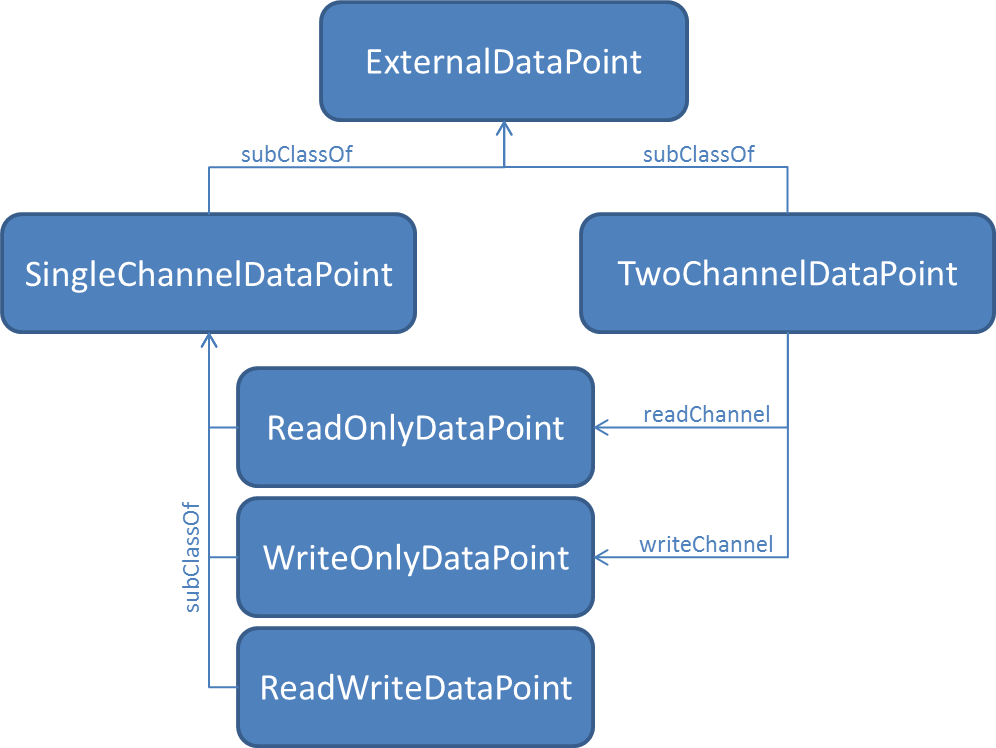
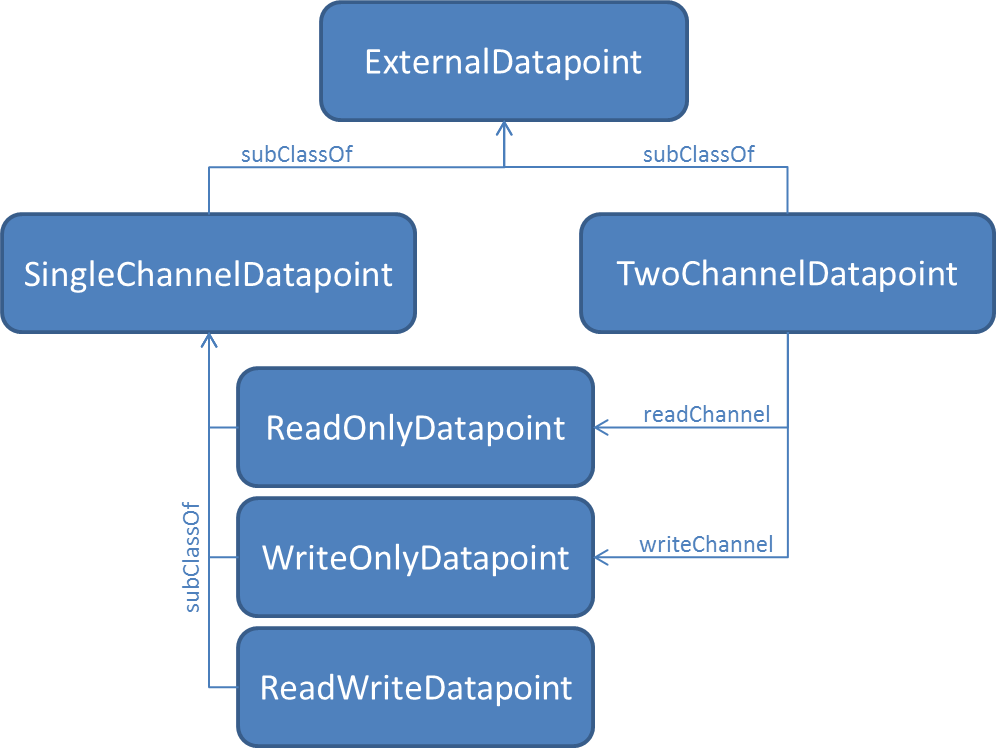
(1) The class ExternalComponent has been made abstract, the new input parameter 'componentURI' has been added to the constructor of this class, the constructor documents now why it is protected, and the class contains now a new method called getComponentURI().
(2) A constant has been added to the interface ComponentIntegrator with appropriate documentation.

(3) The interface ExternalDataPoint has been refactored to ExternalDatapoint ('P' -> 'p', also in doc-files/dpHierarchy.png)

diff --git a/lddi.common/lddi.abstraction/src/main/java/org/universAAL/lddi/abstraction/CommunicationGateway.java b/lddi.common/lddi.abstraction/src/main/java/org/universAAL/lddi/abstraction/CommunicationGateway.java
@@ -22,7 +22,7 @@ package org.universAAL.lddi.abstraction;
 /**
  * A gateway providing a bridge to a network of external components making it for
  * {@link ComponentIntegrator component integrators} possible to gain access to
- * related {@link ExternalDataPoint external data points}.
+ * related {@link ExternalDatapoint external datapoints}.
  * 
  * For a better understanding, please refer to both the package documentation and the
  * documentation of the methods further below.
@@ -44,19 +44,19 @@ public abstract class CommunicationGateway {
 	/**
 	 * <p>Serves as means for subscribing for events related to the changes of the value
 	 * of a given property of a given external component by specifying the related
-	 * external data point. Note that this implies that the external components made
-	 * known by gateways to integrators must include the property mapping to data points.</p>
+	 * external datapoint. Note that this implies that the external components made
+	 * known by gateways to integrators must include the property mapping to datapoints.</p>
 	 * 
 	 * <p>To be used by {@link ComponentIntegrator component integrators} to inform this
 	 * gateway about the interest to be notified as soon as the value of the given
-	 * external data point changes. The implementation must (1) add the given integrator
+	 * external datapoint changes. The implementation must (1) add the given integrator
 	 * to the list of integrators interested in the same kind of events, and (2) call
-	 * {@link ComponentIntegrator#processEvent(ExternalDataPoint, Object) the related
+	 * {@link ComponentIntegrator#processEvent(ExternalDatapoint, Object) the related
 	 * notification method} of the integrator both with the current value at the time
 	 * of registration and at any time in future when the value changes.</p>
 	 * 
 	 * @param integrator the integrator registing for notification.
-	 * @param datapoint the data point whose changes of values must fire events.
+	 * @param datapoint the datapoint whose changes of values must fire events.
 	 * @param intervalSeconds needed when the external communication protocol doesn't
 	 * support "real-time" eventing and hence the gateway has to implement the eventing
 	 * mechanism by pulling the value every n seconds and check if it has changed or not.
@@ -64,15 +64,15 @@ public abstract class CommunicationGateway {
 	 * @return An ID for this subscription so that integrators can unsubscribe later if
 	 * need be.
 	 */
-	public abstract int startEventing(ComponentIntegrator integrator, ExternalDataPoint datapoint, byte intervalSeconds);
+	public abstract int startEventing(ComponentIntegrator integrator, ExternalDatapoint datapoint, byte intervalSeconds);
 
 	/**
 	 * Serves as means for subscribing for events related to the changes of the value
 	 * of any property of the given external component. Compared to {@link
-	 * #startEventing(ComponentIntegrator, ExternalDataPoint, byte)}, it wildcards all
-	 * data points within the scope of the given external component.
+	 * #startEventing(ComponentIntegrator, ExternalDatapoint, byte)}, it wildcards all
+	 * datapoints within the scope of the given external component.
 	 * 
-	 * @see #startEventing(ComponentIntegrator, ExternalDataPoint, byte) 
+	 * @see #startEventing(ComponentIntegrator, ExternalDatapoint, byte) 
 	 */
 	public abstract int startEventing(ComponentIntegrator integrator, ExternalComponent component, byte intervalSeconds);
 
@@ -82,11 +82,11 @@ public abstract class CommunicationGateway {
 	 * any external component of the given type; otherwise, with propURI == null,
 	 * it can be used to subscribe for the changes of the value of any property
 	 * of any external component of the given type. Compared to {@link
-	 * #startEventing(ComponentIntegrator, ExternalDataPoint, byte)}, it wildcards
-	 * all data points within the scope of all external components of the given
+	 * #startEventing(ComponentIntegrator, ExternalDatapoint, byte)}, it wildcards
+	 * all datapoints within the scope of all external components of the given
 	 * type, either by selecting those that correspond to a given property or not.
 	 * 
-	 * @see #startEventing(ComponentIntegrator, ExternalDataPoint, byte) 
+	 * @see #startEventing(ComponentIntegrator, ExternalDatapoint, byte) 
 	 */
 	public abstract int startEventing(ComponentIntegrator integrator, String componentTypeURI, String propURI, byte intervalSeconds);
 
@@ -94,7 +94,7 @@ public abstract class CommunicationGateway {
 	 * {@link ComponentIntegrator component integrators} can use this method to unsubscribe
 	 * a subscription done previously.
 	 * @param eventingID the ID returned previously when calling {@link #startEventing(
-	 * ComponentIntegrator, ExternalDataPoint, byte)} or any of the wildcarding versions
+	 * ComponentIntegrator, ExternalDatapoint, byte)} or any of the wildcarding versions
 	 * of it.
 	 */
 	public abstract void stopEventing(int eventingID);
@@ -102,18 +102,18 @@ public abstract class CommunicationGateway {
 	/**
 	 * {@link ComponentIntegrator component integrators} can use this method to get the
 	 * value of a given property of a given external component by specifying the related
-	 * external data point. Note that this implies that the external components made
-	 * known by gateways to integrators must include the property mapping to data points.</p>
+	 * external datapoint. Note that this implies that the external components made
+	 * known by gateways to integrators must include the property mapping to datapoints.</p>
 	 */
-	public abstract Object readValue(ExternalDataPoint datapoint);
+	public abstract Object readValue(ExternalDatapoint datapoint);
 
 	/**
 	 * {@link ComponentIntegrator component integrators} can use this method to change the
 	 * value of a given property of a given external component by specifying the related
-	 * external data point and the new value. Note that this implies that the external
+	 * external datapoint and the new value. Note that this implies that the external
 	 * components made known by gateways to integrators must include the property mapping
-	 * to data points.</p>
+	 * to datapoints.</p>
 	 */
-	public abstract void writeValue(ExternalDataPoint datapoint, Object value);
+	public abstract void writeValue(ExternalDatapoint datapoint, Object value);
 
 }

diff --git a/lddi.common/lddi.abstraction/src/main/java/org/universAAL/lddi/abstraction/ExternalComponent.java b/lddi.common/lddi.abstraction/src/main/java/org/universAAL/lddi/abstraction/ExternalComponent.java
@@ -31,45 +31,56 @@ import java.util.Hashtable;
  * about the existence of external components.</p>
  * 
  * <p>To support gateways in mapping the ontological way of "addressing" in universAAL to the kind of addressing
- * in the external network, this class provides the methods {@link #addPropMapping(String, ExternalDataPoint)}
- * and {@link #getDataPoint(String)} in terms of mapping ontological properties to read- and writable data
- * points. Gateways are expected to use this class as means for grouping external data points that correspond
+ * in the external network, this class provides the methods {@link #addPropMapping(String, ExternalDatapoint)}
+ * and {@link #getDatapoint(String)} in terms of mapping ontological properties to read- and writable datapoints.
+ * Gateways are expected to use this class as means for grouping external datapoints that correspond
  * to a distinct component of a distinct type. Then, in each external component, all properties mapped to
- * the selected group of external data points must be defined for that type in the used ontology. This type must
+ * the selected group of external datapoints must be defined for that type in the used ontology. This type must
  * be set by gateways and can be fetched by calling {@link #getTypeURI()}. Thinking in terms of devices, this
  * means that all properties must belong to a single device whose type is returned by {@link #getTypeURI()}.</p>
  *
  */
-public class ExternalComponent {
+public abstract class ExternalComponent {
 
 	private CommunicationGateway gw;
+	private String componentURI = null;
 	private String typeURI = null;
-	private Hashtable<String,ExternalDataPoint> propMappings = null;
+	private Hashtable<String,ExternalDatapoint> propMappings = null;
 
-	protected ExternalComponent(CommunicationGateway gw, String typeURI) {
-		if (gw == null  ||  typeURI == null)
+	/**
+	 * The constructor has been made 'protected' in order to force
+	 * communication gateways to create own subclasses in order to make sure 
+	 * that each communication gateway can create only instances defined by itself.
+	 */
+	protected ExternalComponent(CommunicationGateway gw, String componentURI, String typeURI) {
+		if (gw == null  ||  componentURI == null  ||  typeURI == null)
 			throw new NullPointerException("ExternalComponent constructor: parameter null!");
 		
 		this.gw = gw;
+		this.componentURI = componentURI;
 		this.typeURI = typeURI;
 	}
 	
-	public void addPropMapping(String propURI, ExternalDataPoint dataPoint) {
-		if (propURI == null  ||  dataPoint == null)
+	public void addPropMapping(String propURI, ExternalDatapoint datapoint) {
+		if (propURI == null  ||  datapoint == null)
 			return;
 		
 		if (propMappings == null)
-			propMappings = new Hashtable<String, ExternalDataPoint>();
+			propMappings = new Hashtable<String, ExternalDatapoint>();
 		
-		propMappings.put(propURI, dataPoint);
+		propMappings.put(propURI, datapoint);
 	}
 	
-	public ExternalDataPoint getDataPoint(String propURI) {
+	public ExternalDatapoint getDatapoint(String propURI) {
 		return (propMappings==null)? null : propMappings.get(propURI);
 	}
 	
 	public CommunicationGateway getGateway() {
 		return gw;
+	}
+	
+	public String getComponentURI() {
+		return componentURI;
 	}
 	
 	public String getTypeURI() {

diff --git a/lddi.common/lddi.abstraction/src/main/java/org/universAAL/lddi/abstraction/ExternalDataPoint.java b/lddi.common/lddi.abstraction/src/main/java/org/universAAL/lddi/abstraction/ExternalDataPoint.java
@@ -20,13 +20,13 @@
 package org.universAAL.lddi.abstraction;
 
 /**
- * <p>An ExternalDataPoint is a readable and / or writable data point outside the universAAL network.
+ * <p>An ExternalDatapoint is a readable and / or writable datapoint outside the universAAL network.
  * It is assumed that ontological properties of instances of {@link ExternalComponent} can be mapped
- * to such data points. {@link CommunicationGateway Communication gateways} may pack all the info
+ * to such datapoints. {@link CommunicationGateway Communication gateways} may pack all the info
  * (no matter if a simple address or a complex structure) needed for mapping ontological properties
  * of reachable external components in objects that implement this interface and store / fetch it
  * for their list of components using {@link ExternalComponent#addPropMapping(String,
- * ExternalDataPoint)} / {@link ExternalComponent#getDataPoint(String)}.</p>
+ * ExternalDatapoint)} / {@link ExternalComponent#getDatapoint(String)}.</p>
  * 
  * <p>It is important that gateways map each ontological property of a distinct external component to
  * a single instance of this class. Therefore, in cases that different addresses have to be used for
@@ -44,7 +44,7 @@ package org.universAAL.lddi.abstraction;
  * an address also the size of each read or write access in bits / bytes / words.</p>
  *
  */
-public interface ExternalDataPoint {
+public interface ExternalDatapoint {
 
 	/**
 	 * If this method returns true, it means that the status / value
@@ -56,7 +56,7 @@ public interface ExternalDataPoint {
 	 * status / value reachable at this address cannot be read but can
 	 * be changed. Otherwise, it is both read- and writable.
 	 * 
-	 * No implementation of ExternalDataPoint may return for both this
+	 * No implementation of ExternalDatapoint may return for both this
 	 * and the {@link #isWriteOnly()} method simultaneously true!
 	 */
 	public boolean isReadOnly();
@@ -71,18 +71,18 @@ public interface ExternalDataPoint {
 	 * status / value reachable at this address cannot be changed but
 	 * can be read. Otherwise, it is both read- and writable.
 	 * 
-	 * No implementation of ExternalDataPoint may return for both this
+	 * No implementation of ExternalDatapoint may return for both this
 	 * and the {@link #isReadOnly()} method simultaneously true!
 	 */
 	public boolean isWriteOnly();
 	
 	/**
-	 * Returns the {@link ExternalComponent external component} to which this data point belongs.
+	 * Returns the {@link ExternalComponent external component} to which this datapoint belongs.
 	 */
 	public ExternalComponent getComponent();
 	
 	/**
-	 * Returns the URI of the ontological property that maps to this data point.
+	 * Returns the URI of the ontological property that maps to this datapoint.
 	 */
 	public String getProperty();
 }

diff --git a/lddi.common/lddi.abstraction/src/main/java/org/universAAL/lddi/abstraction/ComponentIntegrator.java b/lddi.common/lddi.abstraction/src/main/java/org/universAAL/lddi/abstraction/ComponentIntegrator.java
@@ -33,6 +33,12 @@ package org.universAAL.lddi.abstraction;
 public interface ComponentIntegrator {
 
 	/**
+	 * A constant string that can be used by component integrators to map the ontological representation of
+	 * an external component to its corresponding original {@link ExternalComponent}.
+	 */
+	public static final String CONST_CORRESPONDING_COMPONENT = "uAAL:lddi.abstraction.ComponentIntegrator/correspondingComponent";
+
+	/**
 	 * Used by {@link CommunicationGateway communication gateways} to share
 	 * with this integrator the external components reachable through that
 	 * gateway after this integrator {@link CommunicationGateway#register(String,
@@ -40,7 +46,7 @@ public interface ComponentIntegrator {
 	 * certain types. Therefore, the array of components provided here as
 	 * parameter is expected to contain only external components already
 	 * subscribed for. Additionally, the components in the array must already
-	 * contain the mapping of ontological properties to external data points
+	 * contain the mapping of ontological properties to external datapoints
 	 * so that this integrator can make use of them when utilizing some of the
 	 * other methods of the gateway.
 	 */
@@ -48,19 +54,19 @@ public interface ComponentIntegrator {
 
 	/**
 	 * Used by {@link CommunicationGateway communication gateways} to notify
-	 * the integrator about the change of the value of a data point that is 
+	 * the integrator about the change of the value of a datapoint that is 
 	 * within the scope of a previous subscription of this integrator to the
 	 * notifying gateway, no matter if the subscription was done by calling
 	 * {@link CommunicationGateway#startEventing(ComponentIntegrator,
-	 * ExternalDataPoint, byte)} or any of the wildcarding versions of it.
+	 * ExternalDatapoint, byte)} or any of the wildcarding versions of it.
 	 * 
 	 * @param datapoint the datapoint whose value has changed; the integrator
-	 * can use {@link ExternalDataPoint#getComponent()} and {@link
-	 * ExternalDataPoint#getProperty()} for getting the ontological info
+	 * can use {@link ExternalDatapoint#getComponent()} and {@link
+	 * ExternalDatapoint#getProperty()} for getting the ontological info
 	 * needed for further processing the event (mostly for publishing a
 	 * context event onto the context bus).
-	 * @param value The new value of the given data point.
+	 * @param value The new value of the given datapoint.
 	 */
-	public void processEvent(ExternalDataPoint datapoint, Object value);
+	public void processEvent(ExternalDatapoint datapoint, Object value);
 
 }

diff --git a/lddi.common/lddi.abstraction/src/main/java/org/universAAL/lddi/abstraction/package-info.java b/lddi.common/lddi.abstraction/src/main/java/org/universAAL/lddi/abstraction/package-info.java
@@ -31,8 +31,8 @@
  * org.universAAL.lddi.abstraction.CommunicationGateway communication gateways}, {@link
  * org.universAAL.lddi.abstraction.ComponentIntegrator component integrators}, {@link
  * org.universAAL.lddi.abstraction.ExternalComponent external components}, and component
- * type specific ontologies (there are also {@link org.universAAL.lddi.abstraction.ExternalDataPoint
- * external data points} as an additional concept that is not included in this package info).</p> 
+ * type specific ontologies (there are also {@link org.universAAL.lddi.abstraction.ExternalDatapoint
+ * external datapoints} as an additional concept that is not included in this package info).</p> 
  * 
  * <p>As indicated by the figure above, this package has a universAAL-specific view; in particular,
  * the abstraction layer of LDDI exists in this package virtually in terms of a set of relevant
